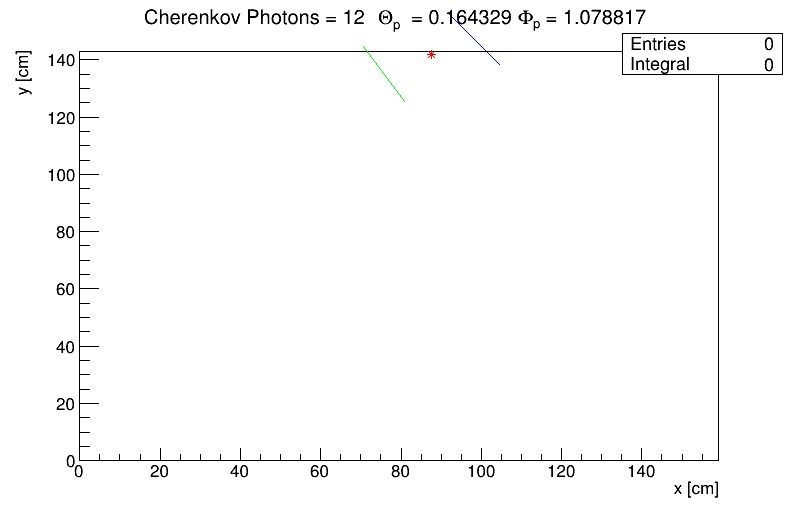
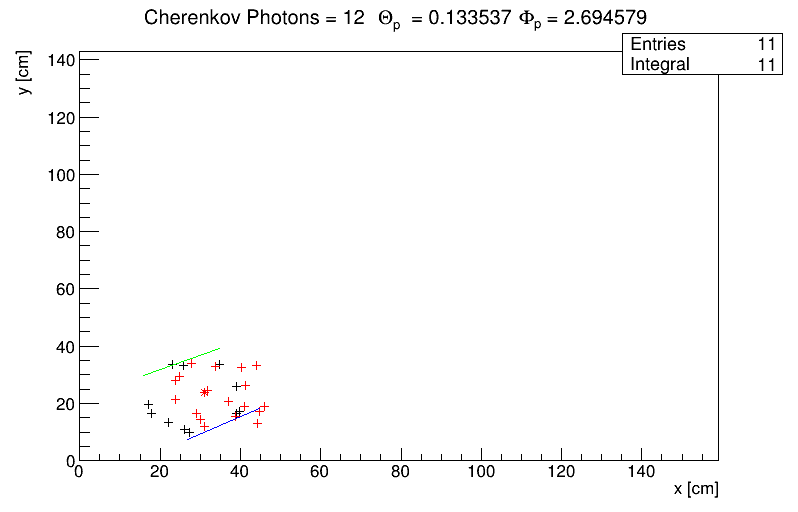
bbox segm works

diff --git a/CkovTools.cpp b/CkovTools.cpp
@@ -326,7 +326,7 @@ public:
       auto x = photons.first;
       auto y = photons.second;
 
-      double xG = x, yG = y;
+      double xG = photons.first, yG = photons.second;
       localRefUnrot->Fill(x,y);
 
       // transform to phiRing ref-system
@@ -348,8 +348,12 @@ public:
       Printf("CkovTools segment thetaCer %f phiCer %f", thetaCer, phiCer);
 	
 
-      if(x > -mL1Max && x < mL2Max && y*y > mRMax*mRMax  && y < mRMax){
-      //if(true){
+      auto xAbs = TMath::Abs(x);
+      auto yAbs = TMath::Abs(y);
+
+	Printf("\nckovtools cherenkov photons xAbs  %f > mL1Max %f && x %f < mL2Max %f && yAbs %f > mRMax  %f && y %f < mRMax %f\n",  x, mL1Max, xAbs , mL2Max , yAbs , mRMax , y , mRMax);
+      if(y > -mL1Max && x < mL2Max && y > -mRMax  && y < mRMax){
+
 
 
 	double thetaCer, phiCer;
@@ -399,8 +403,8 @@ public:
       const auto& y = photons.second;
         //Printf("CkovTools segment : backGroundPhotons %f x", x);
       
-      //if(x > mL1Max && x < mL2Max && y > -mRMax && y < mRMax){
-      if(x > -mL1Max && x < mL2Max && y*y > mRMax*mRMax  && y < mRMax){
+
+      if(y > -mL1Max && x < mL2Max && y > -mRMax  && y < mRMax){
         bool withinRange = true; 
         // check if the coordinates also corresponds to one of the possible cherenkov candidates
 

diff --git a/ReconG.cpp b/ReconG.cpp
@@ -73,7 +73,7 @@ class ReconG {
  public: //   ReconG reconG(thetaP, phiP, xP, yP, xPC, yPC, nF);
     ReconG(double _theta, double _phi, double _xRad, double _yRad, double _xPC, double _yPC, double n) : refIdx(n)
     { 
-      setTrack(_xRad, _yRad, _theta, _phi);
+      setTrack(_xRad, _yRad, _theta, -_phi);
       setImpPC(_xPC, _yPC);
 
 
